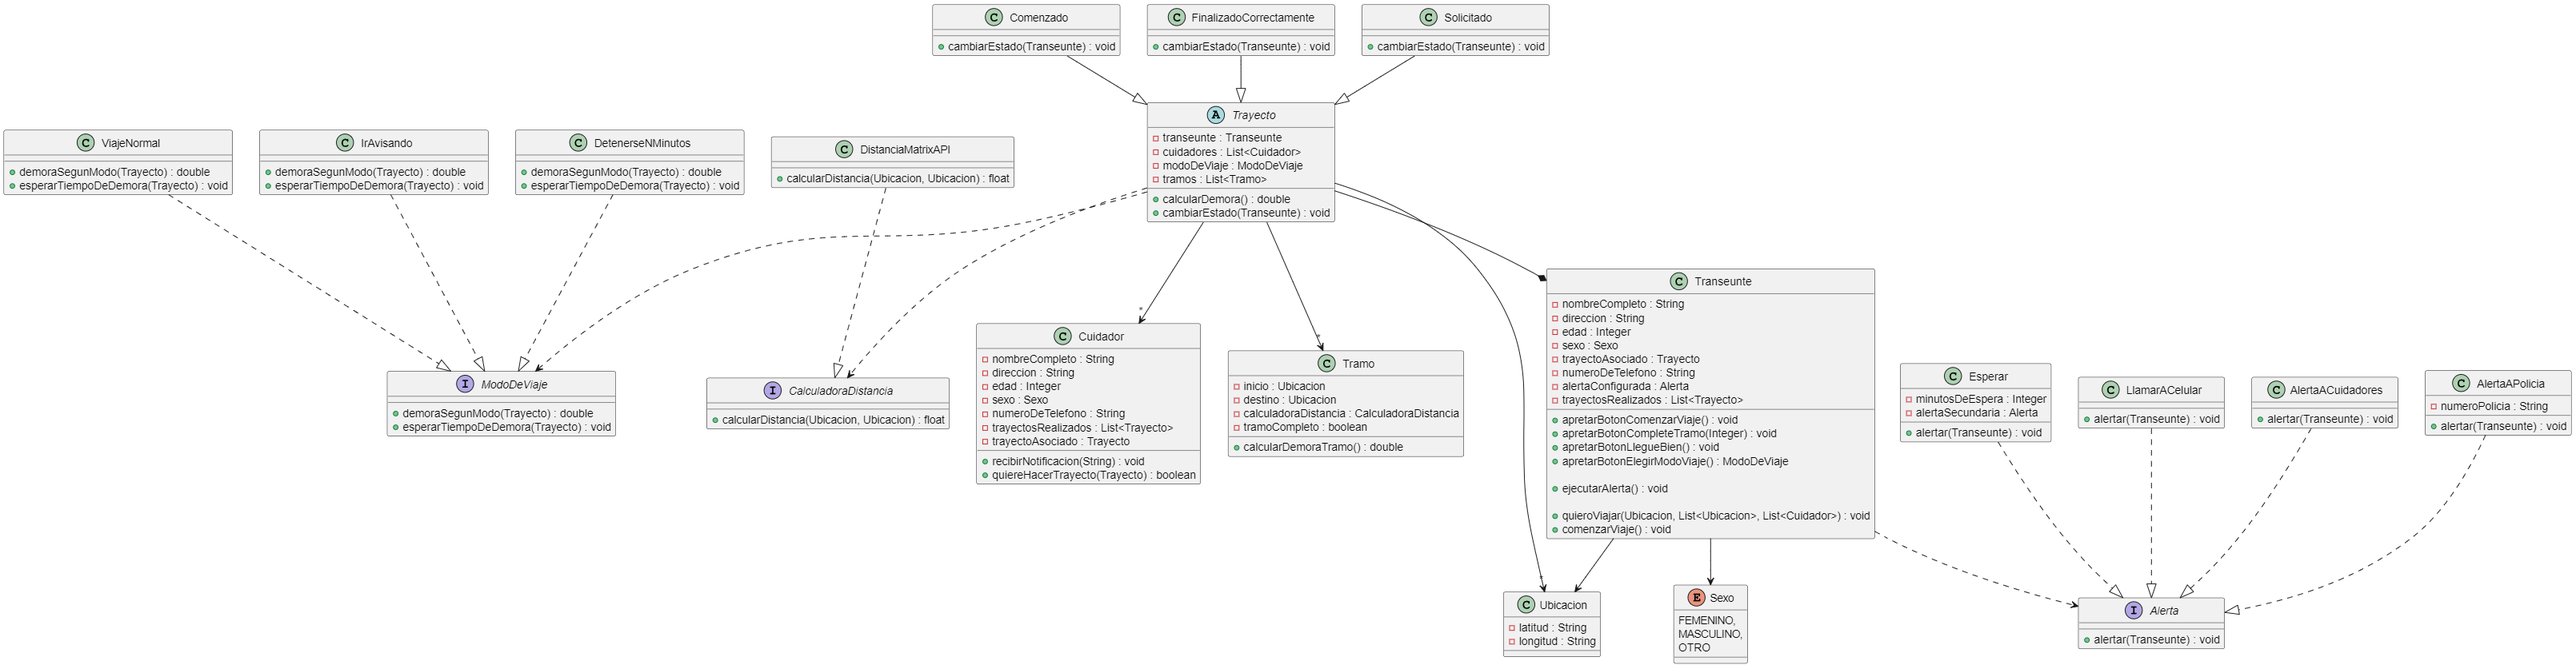
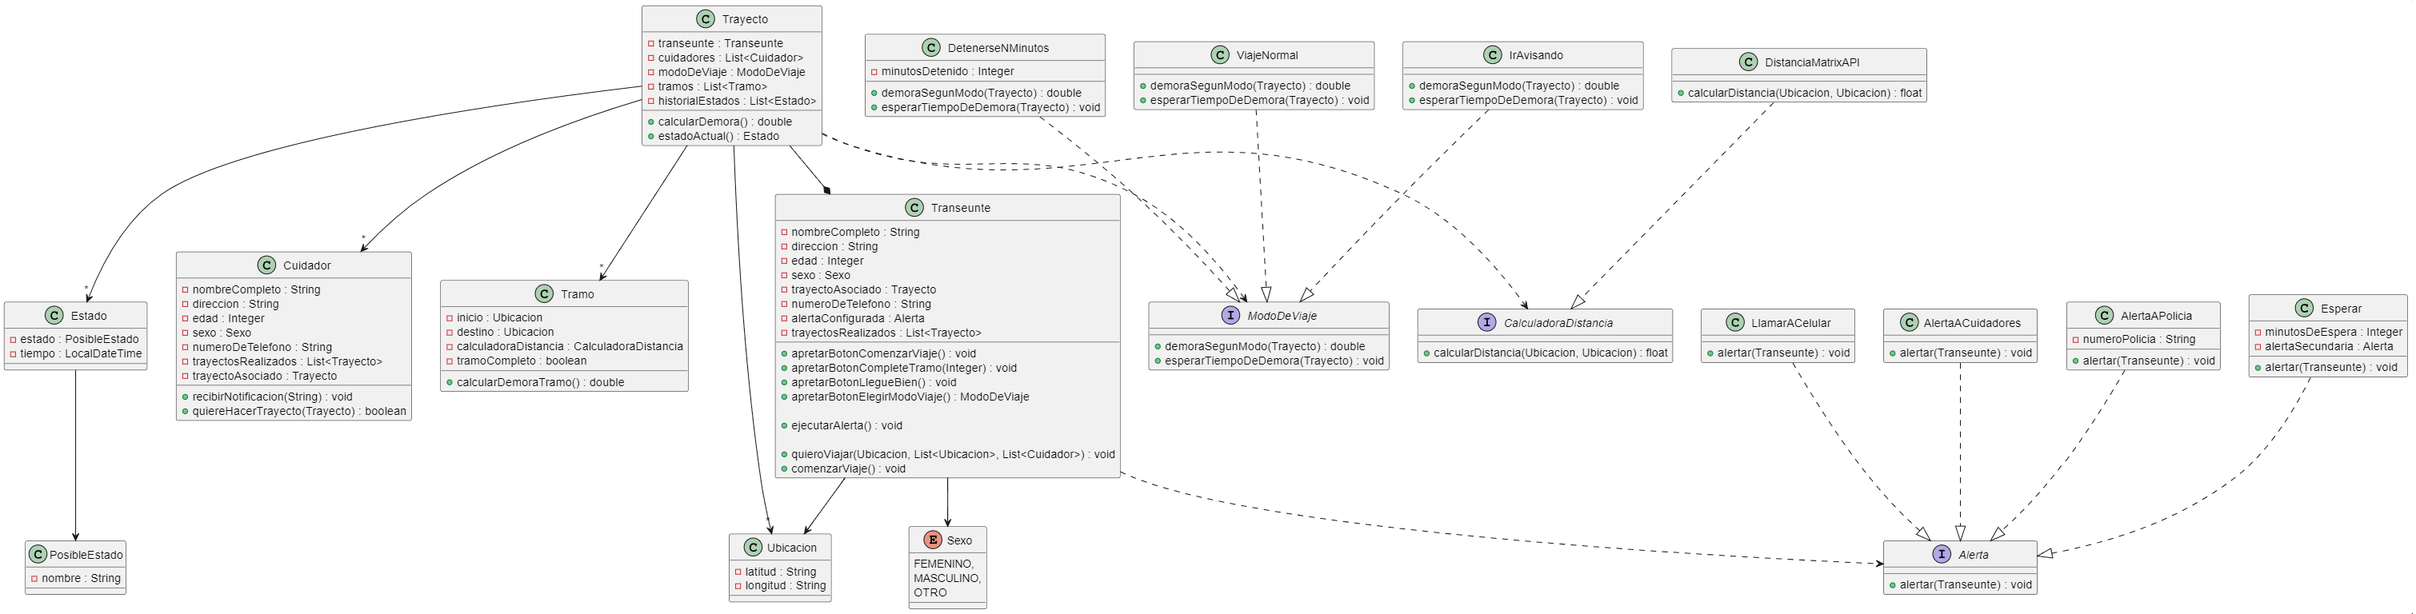
Versión Final 1.0
Eliminación de la mala implementación del patrón State. Corrección en la justificación, diagrama, etc.

Implementación de clases Estado y Posible Estado.

diff --git a/src/main/java/usuarios/Transeunte.java b/src/main/java/usuarios/Transeunte.java
@@ -10,8 +10,10 @@ import extras.Ubicacion;
 import lombok.Getter;
 import lombok.Setter;
 
+import java.time.LocalDateTime;
 import java.util.ArrayList;
 import java.util.List;
+import java.util.Objects;
 
 public class Transeunte {
     @Setter @Getter private String nombreCompleto;
@@ -42,7 +44,7 @@ public class Transeunte {
         }
 
         //Cambio el estado de Solicitado a Comenzado
-        this.trayectoAsociado.cambiarEstado(this);
+        this.trayectoAsociado.getHistorialEstados().add(new Estado(new PosibleEstado("Comenzado"), LocalDateTime.now()));
         this.comenzarViaje();
     }
 
@@ -56,7 +58,7 @@ public class Transeunte {
 
     public void apretarBotonLlegueBien(){
         //Cambio el estado de Comenzado a FinalizadoCorrectamente
-        this.trayectoAsociado.cambiarEstado(this);
+        this.trayectoAsociado.getHistorialEstados().add(new Estado(new PosibleEstado("Finalizado"), LocalDateTime.now()));
 
         // Habilitar notificaciones para el transeunte
 
@@ -77,8 +79,12 @@ public class Transeunte {
 
     public ModoDeViaje apretarBotonElegirModoDeViaje(){
         // El usuario verá la opción de elegir el modo de viaje si el trayecto tiene más de una parada
+
+        //Ejemplo de selección:
+
         //ModoDeViaje modoDeViaje = new IrAvisando();
         ModoDeViaje modoDeViaje = new DetenerseNMinutos(10);
+
         return modoDeViaje;
     }
     ////////////////////////////
@@ -102,11 +108,11 @@ public class Transeunte {
 
         //Seteo el trayecto asociado
         if(tramos.size()==1){
-            this.setTrayectoAsociado(new Solicitado(this,(new ViajeNormal()),tramos));
+            this.setTrayectoAsociado(new Trayecto(this,(new ViajeNormal()),tramos));
         }
         else {
             //Mostrar botón elegir modo de viaje
-            this.setTrayectoAsociado(new Solicitado(this,this.apretarBotonElegirModoDeViaje(),tramos));
+            this.setTrayectoAsociado(new Trayecto(this,this.apretarBotonElegirModoDeViaje(),tramos));
         }
 
         //Notifico a los cuidadores
@@ -145,7 +151,7 @@ public class Transeunte {
         this.trayectoAsociado.getModoDeViaje().esperarTiempoDeDemora(this.trayectoAsociado);
 
         //Si el trayecto no pasó a ser FinalizadoCorrectamente (debido al botón), se ejecuta la alarma
-        if(!(this.trayectoAsociado instanceof FinalizadoCorrectamente)){
+        if(!Objects.equals(this.trayectoAsociado.estadoActual().getEstado().getNombre(), "Finalizado")){
             this.ejecutarAlerta();
         }
     }

diff --git a/src/main/java/trayecto/Trayecto.java b/src/main/java/trayecto/Trayecto.java
@@ -8,22 +8,31 @@ import lombok.Getter;
 import lombok.Setter;
 import usuarios.Cuidador;
 import usuarios.Transeunte;
+
+import java.time.LocalDateTime;
+import java.util.ArrayList;
 import java.util.List;
 
-public abstract class Trayecto {
+public class Trayecto {
     @Setter @Getter protected Transeunte transeunte;
     @Setter @Getter protected List<Cuidador> cuidadores = null;
     @Setter @Getter protected ModoDeViaje modoDeViaje;
     @Getter @Setter private List<Tramo> tramos;
 
+    @Getter @Setter private List<Estado> historialEstados = new ArrayList<>();
+
     public Trayecto(Transeunte transeunte, ModoDeViaje modoDeViaje, List<Tramo> tramos) {
         this.transeunte = transeunte;
         this.modoDeViaje = modoDeViaje;
         this.tramos = tramos;
+        this.historialEstados.add(new Estado(new PosibleEstado("Solicitado"), LocalDateTime.now()));
     }
 
     public double calcularDemora(){
         return this.modoDeViaje.demoraSegunModo(this);
     }
-    public abstract void cambiarEstado(Transeunte transeunte);
+
+    public Estado estadoActual(){
+        return this.historialEstados.get(this.historialEstados.size()-1);
+    }
 }

diff --git a/src/main/java/extras/modos_de_viaje/DetenerseNMinutos.java b/src/main/java/extras/modos_de_viaje/DetenerseNMinutos.java
@@ -21,7 +21,7 @@ public class DetenerseNMinutos implements ModoDeViaje{
         int demoraPorDetenciones = (trayecto.getTramos().size()-1)*minutosDetenido;
 
         //Demora sólo de los trayectos, sin contar detenciones
-        float demoraTotalTrayecto = 0;
+        double demoraTotalTrayecto = 0;
         for(Tramo unTramo : trayecto.getTramos()){
             demoraTotalTrayecto+= unTramo.calcularDemoraTramo();
         }

diff --git a/src/main/java/trayecto/Estado.java b/src/main/java/trayecto/Estado.java
@@ -1,0 +1,17 @@
+package trayecto;
+
+import lombok.Getter;
+import lombok.Setter;
+
+import java.time.LocalDateTime;
+import java.time.LocalTime;
+
+public class Estado {
+    @Setter @Getter private PosibleEstado estado;
+    @Setter @Getter private LocalDateTime tiempo;
+
+    public Estado(PosibleEstado estado, LocalDateTime tiempo) {
+        this.estado = estado;
+        this.tiempo = tiempo;
+    }
+}

diff --git a/src/main/java/extras/modos_de_viaje/IrAvisando.java b/src/main/java/extras/modos_de_viaje/IrAvisando.java
@@ -8,7 +8,7 @@ import java.util.List;
 public class IrAvisando implements ModoDeViaje{
     @Override
     public double demoraSegunModo(Trayecto trayecto) {
-        float demoraTotalTrayecto = 0;
+        double demoraTotalTrayecto = 0;
         for(Tramo unTramo : trayecto.getTramos()){
             demoraTotalTrayecto+= unTramo.calcularDemoraTramo();
         }

diff --git a/src/main/java/trayecto/PosibleEstado.java b/src/main/java/trayecto/PosibleEstado.java
@@ -1,0 +1,12 @@
+package trayecto;
+
+import lombok.Getter;
+import lombok.Setter;
+
+public class PosibleEstado {
+    @Setter @Getter private String nombre;
+
+    public PosibleEstado(String nombre) {
+        this.nombre = nombre;
+    }
+}
